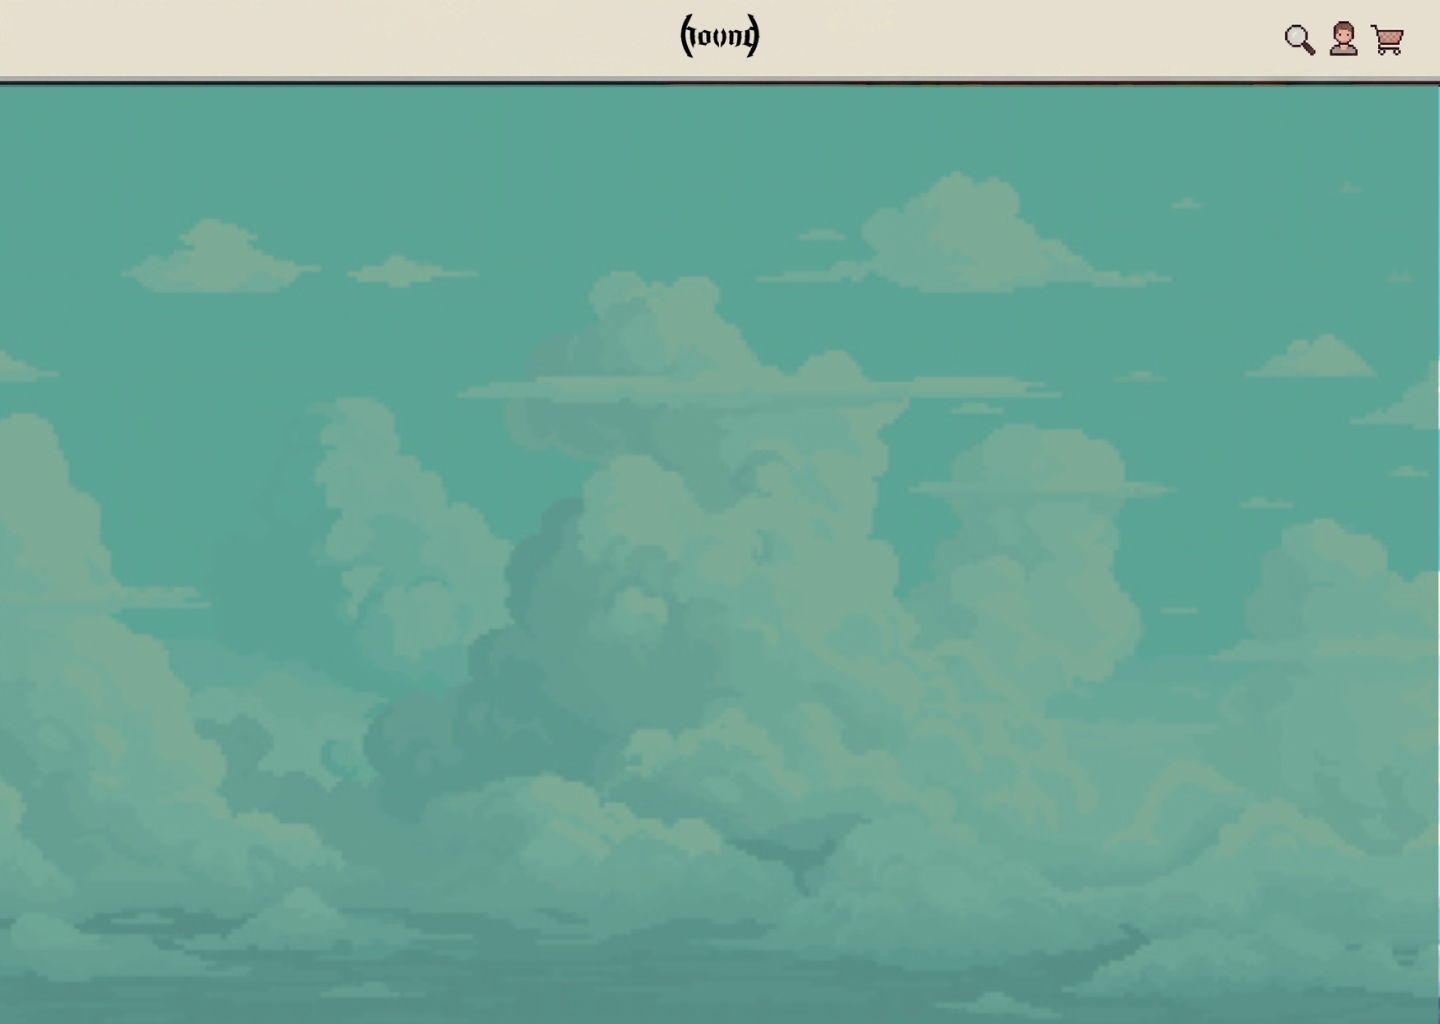
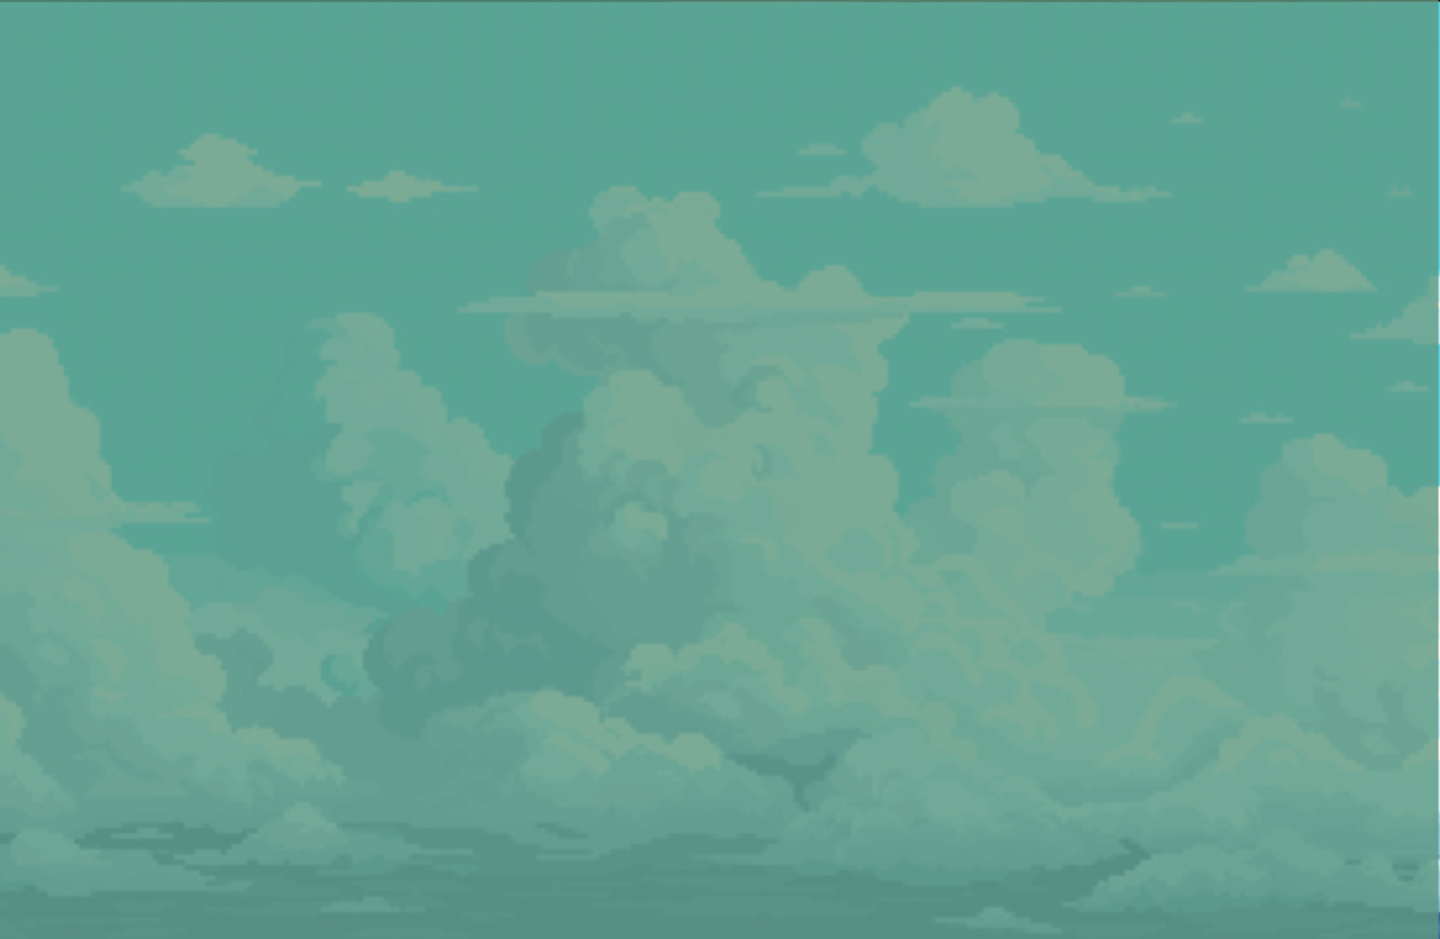
cart refinment n product grid

diff --git a/script.js b/script.js
@@ -1,7 +1,57 @@
 function openCartDrawer() {
     document.getElementById("cart-overlay").classList.add("open");
-
+    document.body.style.overflow = "hidden";
+    renderCartItems();
 }
+
+function closeCartDrawer() {
+    document.getElementById("cart-overlay").classList.remove("open");
+    document.body.style.overflow = "";
+}
+
+function renderCartItems() {
+    const cartItems =
+        document.getElementById("cart-items");
+    const cartTotal =
+        document.getElementById("cart-total");
+
+    if (!cartItems || !cartTotal) {
+        console.log("cart elements not found");
+        return;
+    }
+
+    cartItems.innerHTML = "";
+    if (cart.length === 0) {
+        cartItems.innerHTML = `
+            <p>YOUR CART IS EMPTY</p>
+        `;
+    cartTotal.textContent = "$0";
+    return;
+    }
+
+    let total = 0;
+
+    cart.forEach(product => {
+        const li = document.createElement("li");
+        li.innerHTML = `
+            ${product.name}
+            $${product.price}
+            × ${product.quantity}
+
+        <button onclick="changeQty('${product.name}', -1)">−</button>
+        <button onclick="changeQty('${product.name}', 1)">+</button>
+        <button onclick="removeCartItem('${product.name}')">Remove</button>
+        `;
+
+        cartItems.appendChild(li);
+
+        total +=
+            product.price *
+            product.quantity;
+    });
+    cartTotal.textContent = `$${total}`;
+}
+
 
 /*product*/
 let currentPage = "p"; /*masuk memori lg di hlmn mana*/
@@ -17,19 +67,22 @@ let currentPage = "p"; /*masuk memori lg di hlmn mana*/
     currentPage = page;
     window.scrollTo({ top: 0, behavior: "instant" });
 
-
+    if (page==="products") renderProductGrid();
+    if (page==="checkout") renderCheckoutSummary();
 }
+
 
 /*data*/
 
 const PRODUCTS= [
 {
-    id: 2, 
+    id: 1, 
     name: "HOUND COMPRESSION",
     price: 64,
     currency: "AUD",
     color: "#232325",
-    img: "two.pg"
+    img: "one.png",
+
     detail: {
         badge:"PRE-ORDER",
         title: "HOUND COMPRESSION",
@@ -46,33 +99,70 @@ const PRODUCTS= [
 
         swatches: [
         {color: "#232325", label: "Onyx Black"},
-        {color: "#232325", label: "Onyx Black"},
-        {color: "#232325", label: "Onyx Black"},
-        {color: "#232325", label: "Onyx Black"}
-
-        ];
-
-        
-    
-
-
-    },
-
+        {color: "#343526", label: "Moss"},
+        {color: "#ffe5e7", label: "Maya Pink"},
+        {color: "#ffffff", label: "Quartz White"},
+        ],
+        sizes: ["XS", "S", "M", "L"],
+        images: [
+            
+        "blkback.png",
+        "blkbackcloseup.png",
+        "blkfrontcloseup.png",
 
 
-
-
-
-
-
-
-
-
+        ]
+    }
 },
-
-
-
-
-
-
+    { id: 2, name: "HOUND REFLECTIVE HOODIE", price: 130, currency: "AUD", img: "seven.png"},
+    { id: 3, name: "HOUND KNIT", price: 184, currency: "AUD", img: "six.png" },
+    { id: 4, name: "HOUND ULTIMA", price: 140, currency: "AUD", img: "two.png" },
+    { id: 5, name: "HOUND NECKLACE", price: 150, currency: "AUD", img: "three.png" },
+    { id: 6, name: "HOUND REFLECTIVE TANK", price: 45,  currency: "AUD", img: "four.png" },
+    { id: 7, name: "HOUND COMPRESSION V2", price: 80, currency: "AUD", img: "five.png" },
 ];
+
+/*grid*/
+function renderProductGrid() {
+    const grid = document.getElementById("product-grid");
+    grid.innerHTML = PRODUCTS.map(p => {
+
+    let imgHtml = "";
+    if (p.img) {
+    imgHtml = `<img class="product-card__img" src="${p.img}">`;
+
+    } else {
+    imgHtml = `
+        <div class="product-card__placeholder"
+        style="background:${p.color}">
+        IMAGE
+        </div>
+        `;
+    }
+       
+    return `
+    <article class="product-card" onclick="openProduct(${p.id})">
+      ${imgHtml}
+      <div class="product-card__info">
+        <p>${p.name}</p>
+        <p>$${p.price.toFixed(2)} ${p.currency}</p>
+      </div>
+    </article>
+  `;
+}).join("");
+}
+
+function openProduct(id) {
+    const product= PRODUCTS.find(p => p.id === id);
+    if (!product || !product.detail) {
+      populateDetail(PRODUCTS[0]);
+    } else {
+      populateDetail(product);
+    }
+    goto("detail");
+  }
+
+
+/*product details*/
+
+     

diff --git a/style.css b/style.css
@@ -17,7 +17,7 @@
 /*--reset---*/
 *, *::before, *::after { margin: 0; padding: 0; box-sizing: border-box;}
 html, body {overflow-x: hidden;}
-body {font-family: 'MyCustomFont'; background: var(--cream); color: var(--dark);}
+body {font-family: 'MyCustomFont'; background: var(--cream); color: #fff;}
 img {display: block;}
 button {font-family: inherit; cursor: pointer;}
 
@@ -140,17 +140,31 @@ font-family: 'MyCustomFont'; font-weight: 700; pointer-events: none;
  .btn-checkout:hover{ opacity: 0.82; }
 
   /*--product page---*/
-.breadcrumb {font-size: 11px; letter-spacing: 1px; margin-bottom: 12px; font-family: monospace; cursor: pointer; text-decoration: underline;}
+.products__bg {
+  background-image: url(cloud.png);
+  background-size: cover;
+  background-repeat: no-repeat;
+  background-position: center;
+  min-height: 100vh;
+  
+}
+.breadcrumb {font-size: 11px; letter-spacing: 1px; margin-bottom: 20px; font-family: monospace; cursor: pointer; text-decoration: underline;}
 .products__title{font-family: 'MyCustomFont'; font-size: 28px; letter-spacing: 2px; margin-bottom: 20px;}
 .products__toolbar{display: flex; justify-content: space-between; align-items: center; border-top: 1.5px solid var(--dark); border-bottom:1.5px solid var(--dark); padding: 8px ;}
-.products__toolbar-left{display: flex; gap:16px; align-items: center; border-top: 1.5px solid; border-bottom:}
+.products__toolbar-left{display: flex; gap: 16px; align-items: center;}
 .showing-count{font-size:11px; font-family: monospace; opacity:0.6;}
-.filter-btn { font-family: monospace; font-size: 11px; font-weight: 700; border: 1.5px; background: none; padding: 6px 14px; letter-spacing: 1px;}
+.filter-btn { font-family: monospace; font-size: 11px; font-weight: 700; border: 1.5px; background: none; padding: 6px 14px; letter-spacing: 1px; color:#fff;}
 .filter-btn:hover {background: var(--dark); color: #e8e0d0;}
 
-.sort-btn { font-family: var(--mono-font); font-size: 11px; font-weight: 700; background: none; border: none; letter-spacing: 1px; }
+.sort-btn { font-family: monospace; font-size: 11px; font-weight: 700; background: none; border: none; letter-spacing: 1px; color:#fff}
 
-
-
-
+.product-grid {display:grid; grid-template-columns: repeat(4, 1fr); padding: 0 60px }
+.product-card {border-right: 1px solid var(--muted); border-bottom: 1px solid var(--muted); cursor: pointer; transition: opacity var(--ease);}
+.product-card:hover {opacity: 1;}
+.product-card:nth-child(4n) {border-right: none;}
+.product-card__img { width: 100%; aspect-ratio: 3/4; object-fit: cover;} 
+.product-card__placeholder { width: 100%; aspect-ratio: 3/4; display: flex; align-items: center; justify-content: center; font-size: 11px; font-family: var(--mono-font); color: rgba(255,255,255,0.35);}
+.product-card__info {padding: 12px 16px 20px;}
+.product-card__name {font-family: var(--pixel-font); font-size: 8.5px; letter-spacing: 1px; line-height: 1.7; margin-bottom: 5px;}
+.product-card__price {font-family: monospace; font-size: 12px; opacity:0.75;}
 

diff --git a/main.html b/main.html
@@ -36,27 +36,27 @@
 <main class="page active" id="page-home">
   <div class="hero">
     <img src="bg.png" alt="Hound World Map"/>
-    <button class="hotspot" style="left:8%; top:29%;" onclick="goto('products')">SHOP</button>
-    <button class="hotspot" style="left:42.5%; top:29%;" onclick="goto('products')">COLLECTIONS</button>
-    <button class="hotspot" style="left:70%; top:48.5%;">FAQ</button>
-    <button class="hotspot" style="left: 90%; top:67.5%;" onclick="goto('products')">CONTINUE<br>SHOPPING</button>
+    <button class="hotspot" style="left:6.5%; top:33%;" onclick="goto('products')">SHOP</button>
+    <button class="hotspot" style="left:42.4%; top:33%;" onclick="goto('products')">COLLECTIONS</button>
+    <button class="hotspot" style="left:70.7%; top:49%;">FAQ</button>
+    <button class="hotspot" style="left: 91.3%; top:64.5%;" onclick="goto('products')">CONTINUE<br>SHOPPING</button>
   </div>
 </main>
 
   <!--product page--->
   <main class="page" id="page-products">
-    <div class="products__header">
+    <div class="products__bg">
       <p class="breadcrumb"><span onclick="goto('home')">HOME</span>/ ALL PRODUCTS</p>
       <h1 class="products__title">ALL PRODUCTS</h1>
       <div class="products__toolbar">
         <div class="products__toolbar-left">
           <button class="filter-btn">FILTER ▼</button>
-          <span class="showing-count">SHOWING 8/8 PRODUCTS</span>
+          <span class="showing-count">SHOWING 7/7 PRODUCTS</span>
     </div>
     <button class="sort-btn">ALPHABETICALLY A-Z ▼</button>
   </div>
+  <div class="product-grid" id="product-grid"></div>
 </div>
-<div class="product-grid" id="product-grid"></div>
 <footer class="footer">
   <div class="footer__newsletter">
     <p>Recieve updates first on offers, releases and more</p>
